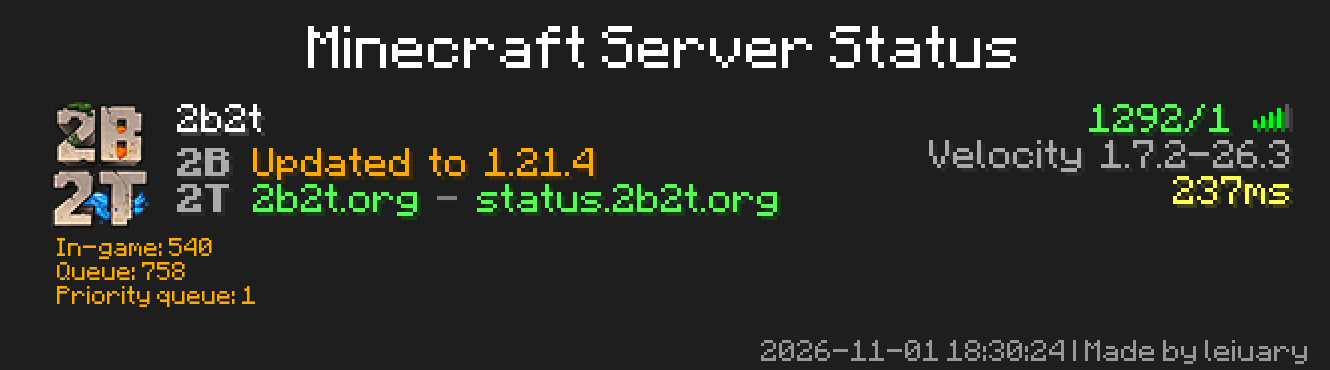
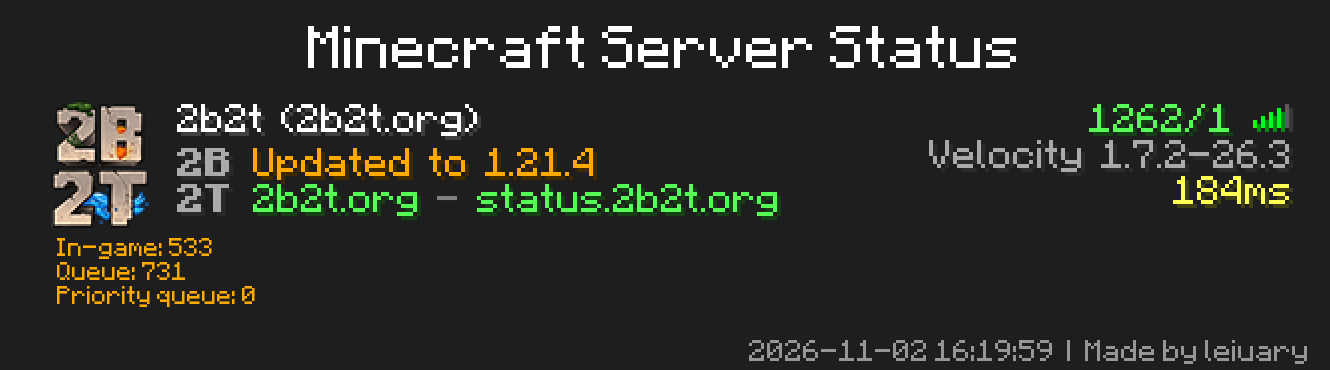
v0.2.0-a2 修复显示别名时不显示ip的问题

diff --git a/nonebot_plugin_mcserver_status_check/vanilla_screen_renderer.py b/nonebot_plugin_mcserver_status_check/vanilla_screen_renderer.py
@@ -172,7 +172,12 @@ def _draw_server_row(
     draw = ImageDraw.Draw(layer)
     status = row["status_obj"]
     raw = getattr(status, "raw", {}) or {}
-    name = str(row.get("alias") or row.get("name") or row.get("address") or "")
+    address = str(row.get("address") or "").strip()
+    label = str(row.get("alias") or row.get("name") or "").strip()
+    if address and label and label.casefold() != address.casefold():
+        name = f"{label} ({address})"
+    else:
+        name = label or address
 
     icon = _server_icon(raw.get("favicon"))
     icon = icon.resize((32 * scale, 32 * scale), Image.Resampling.NEAREST)
